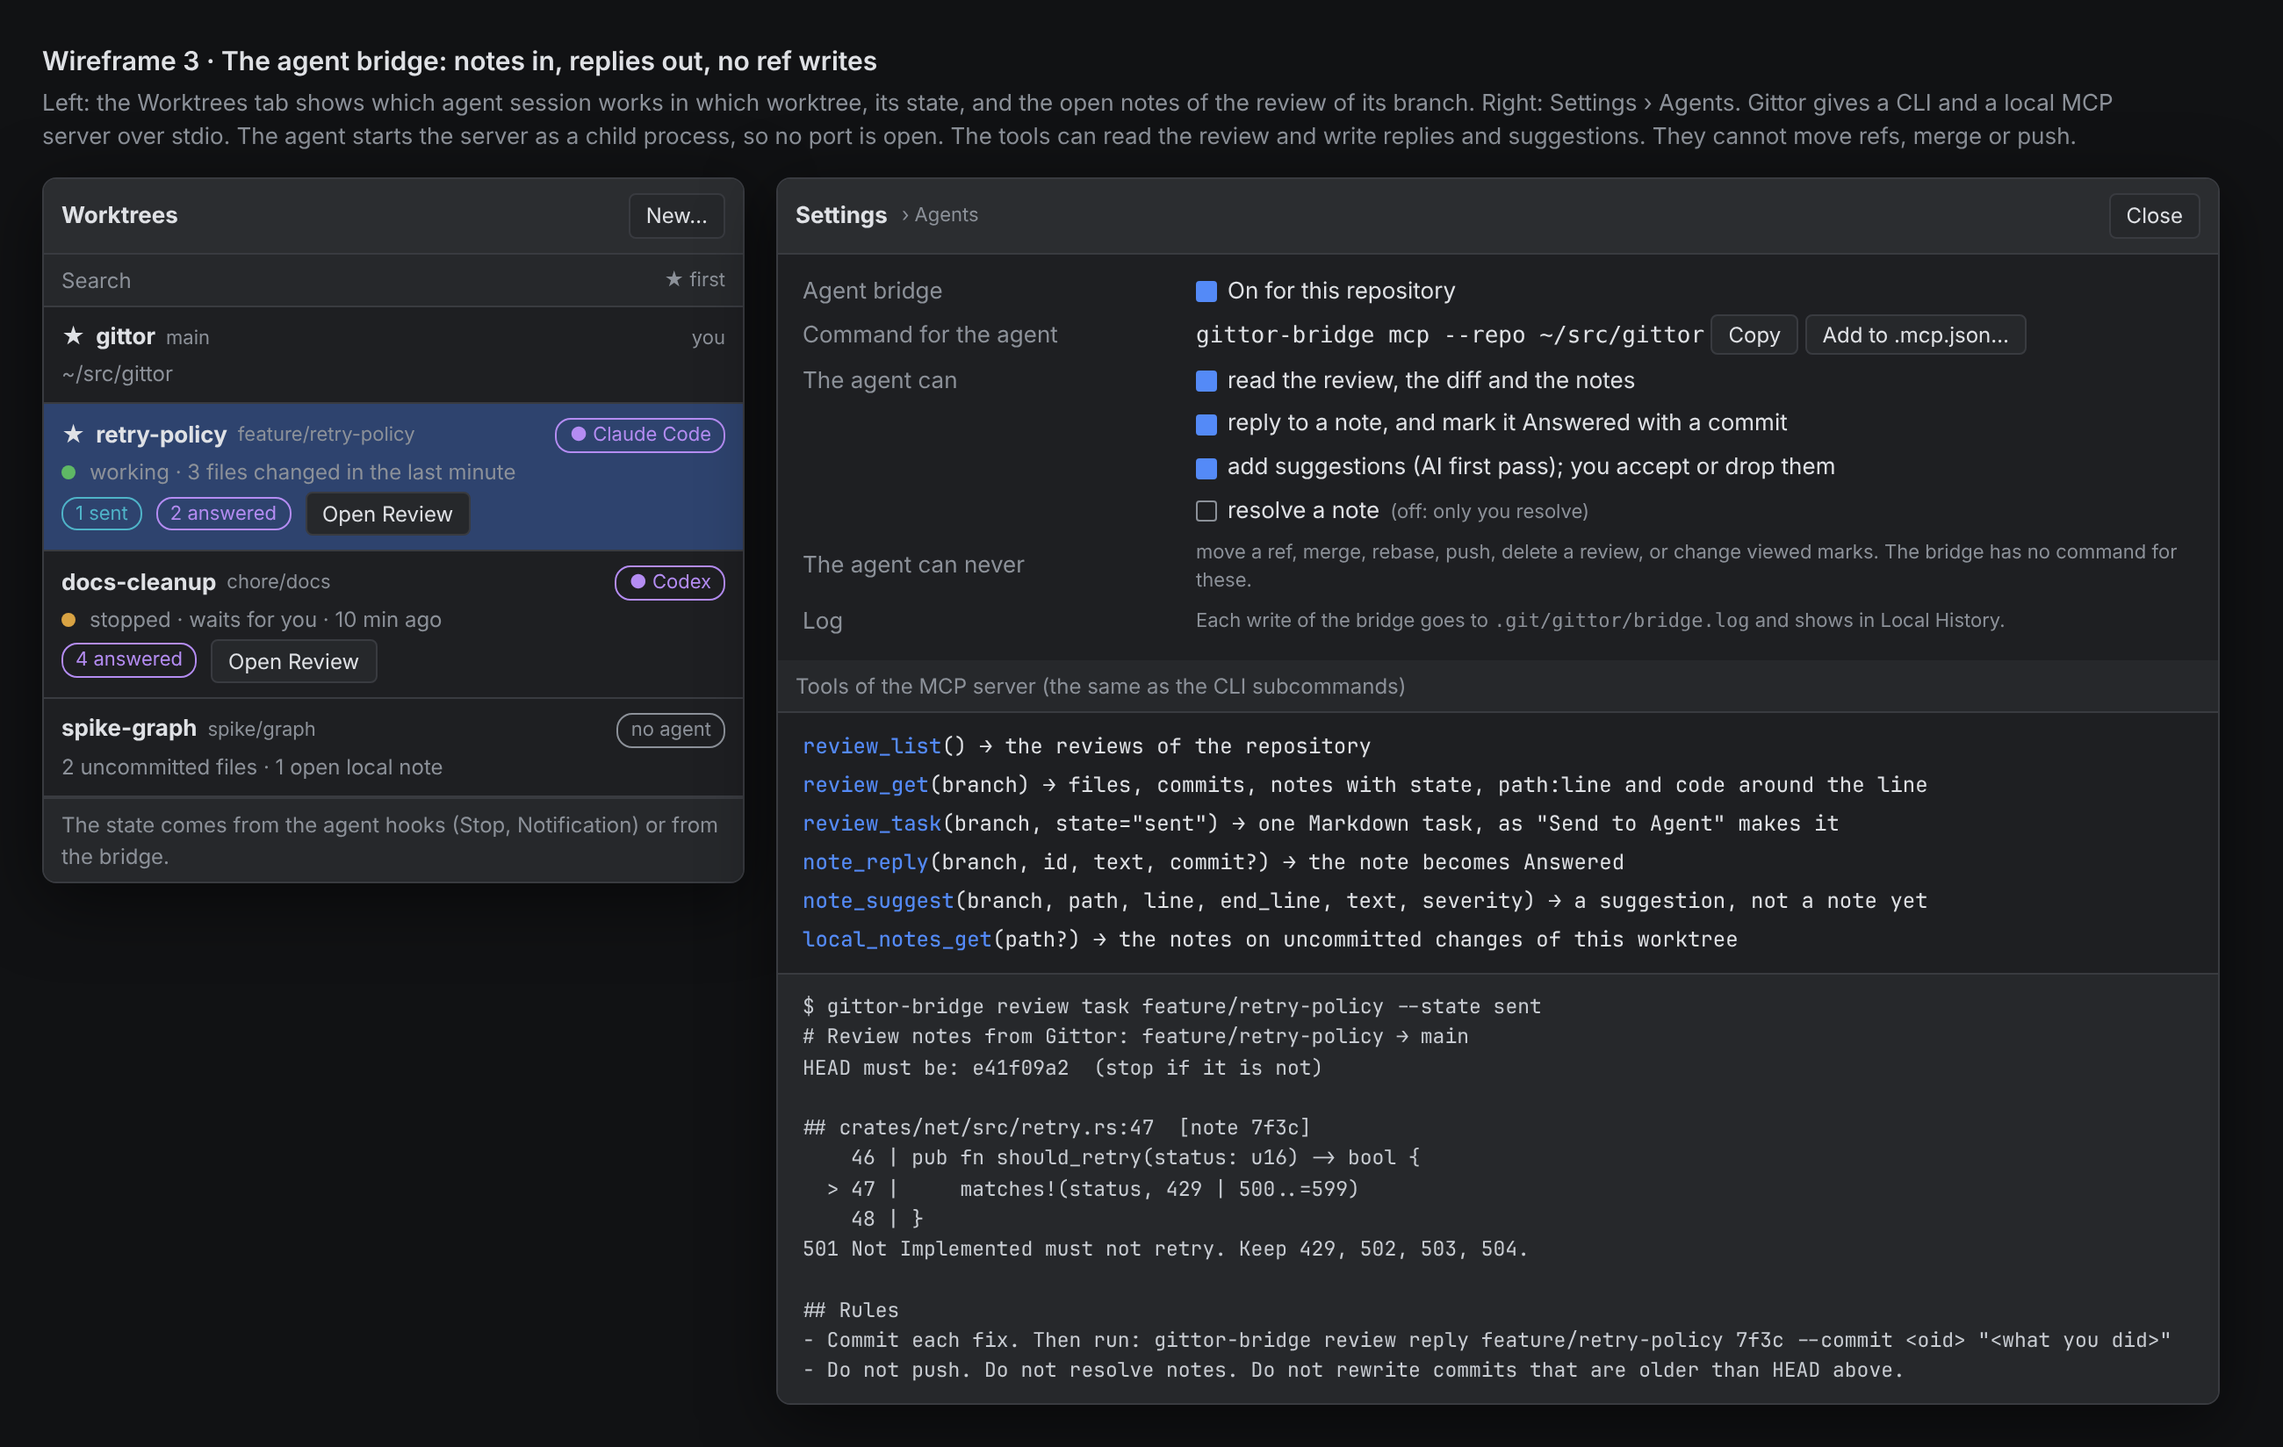
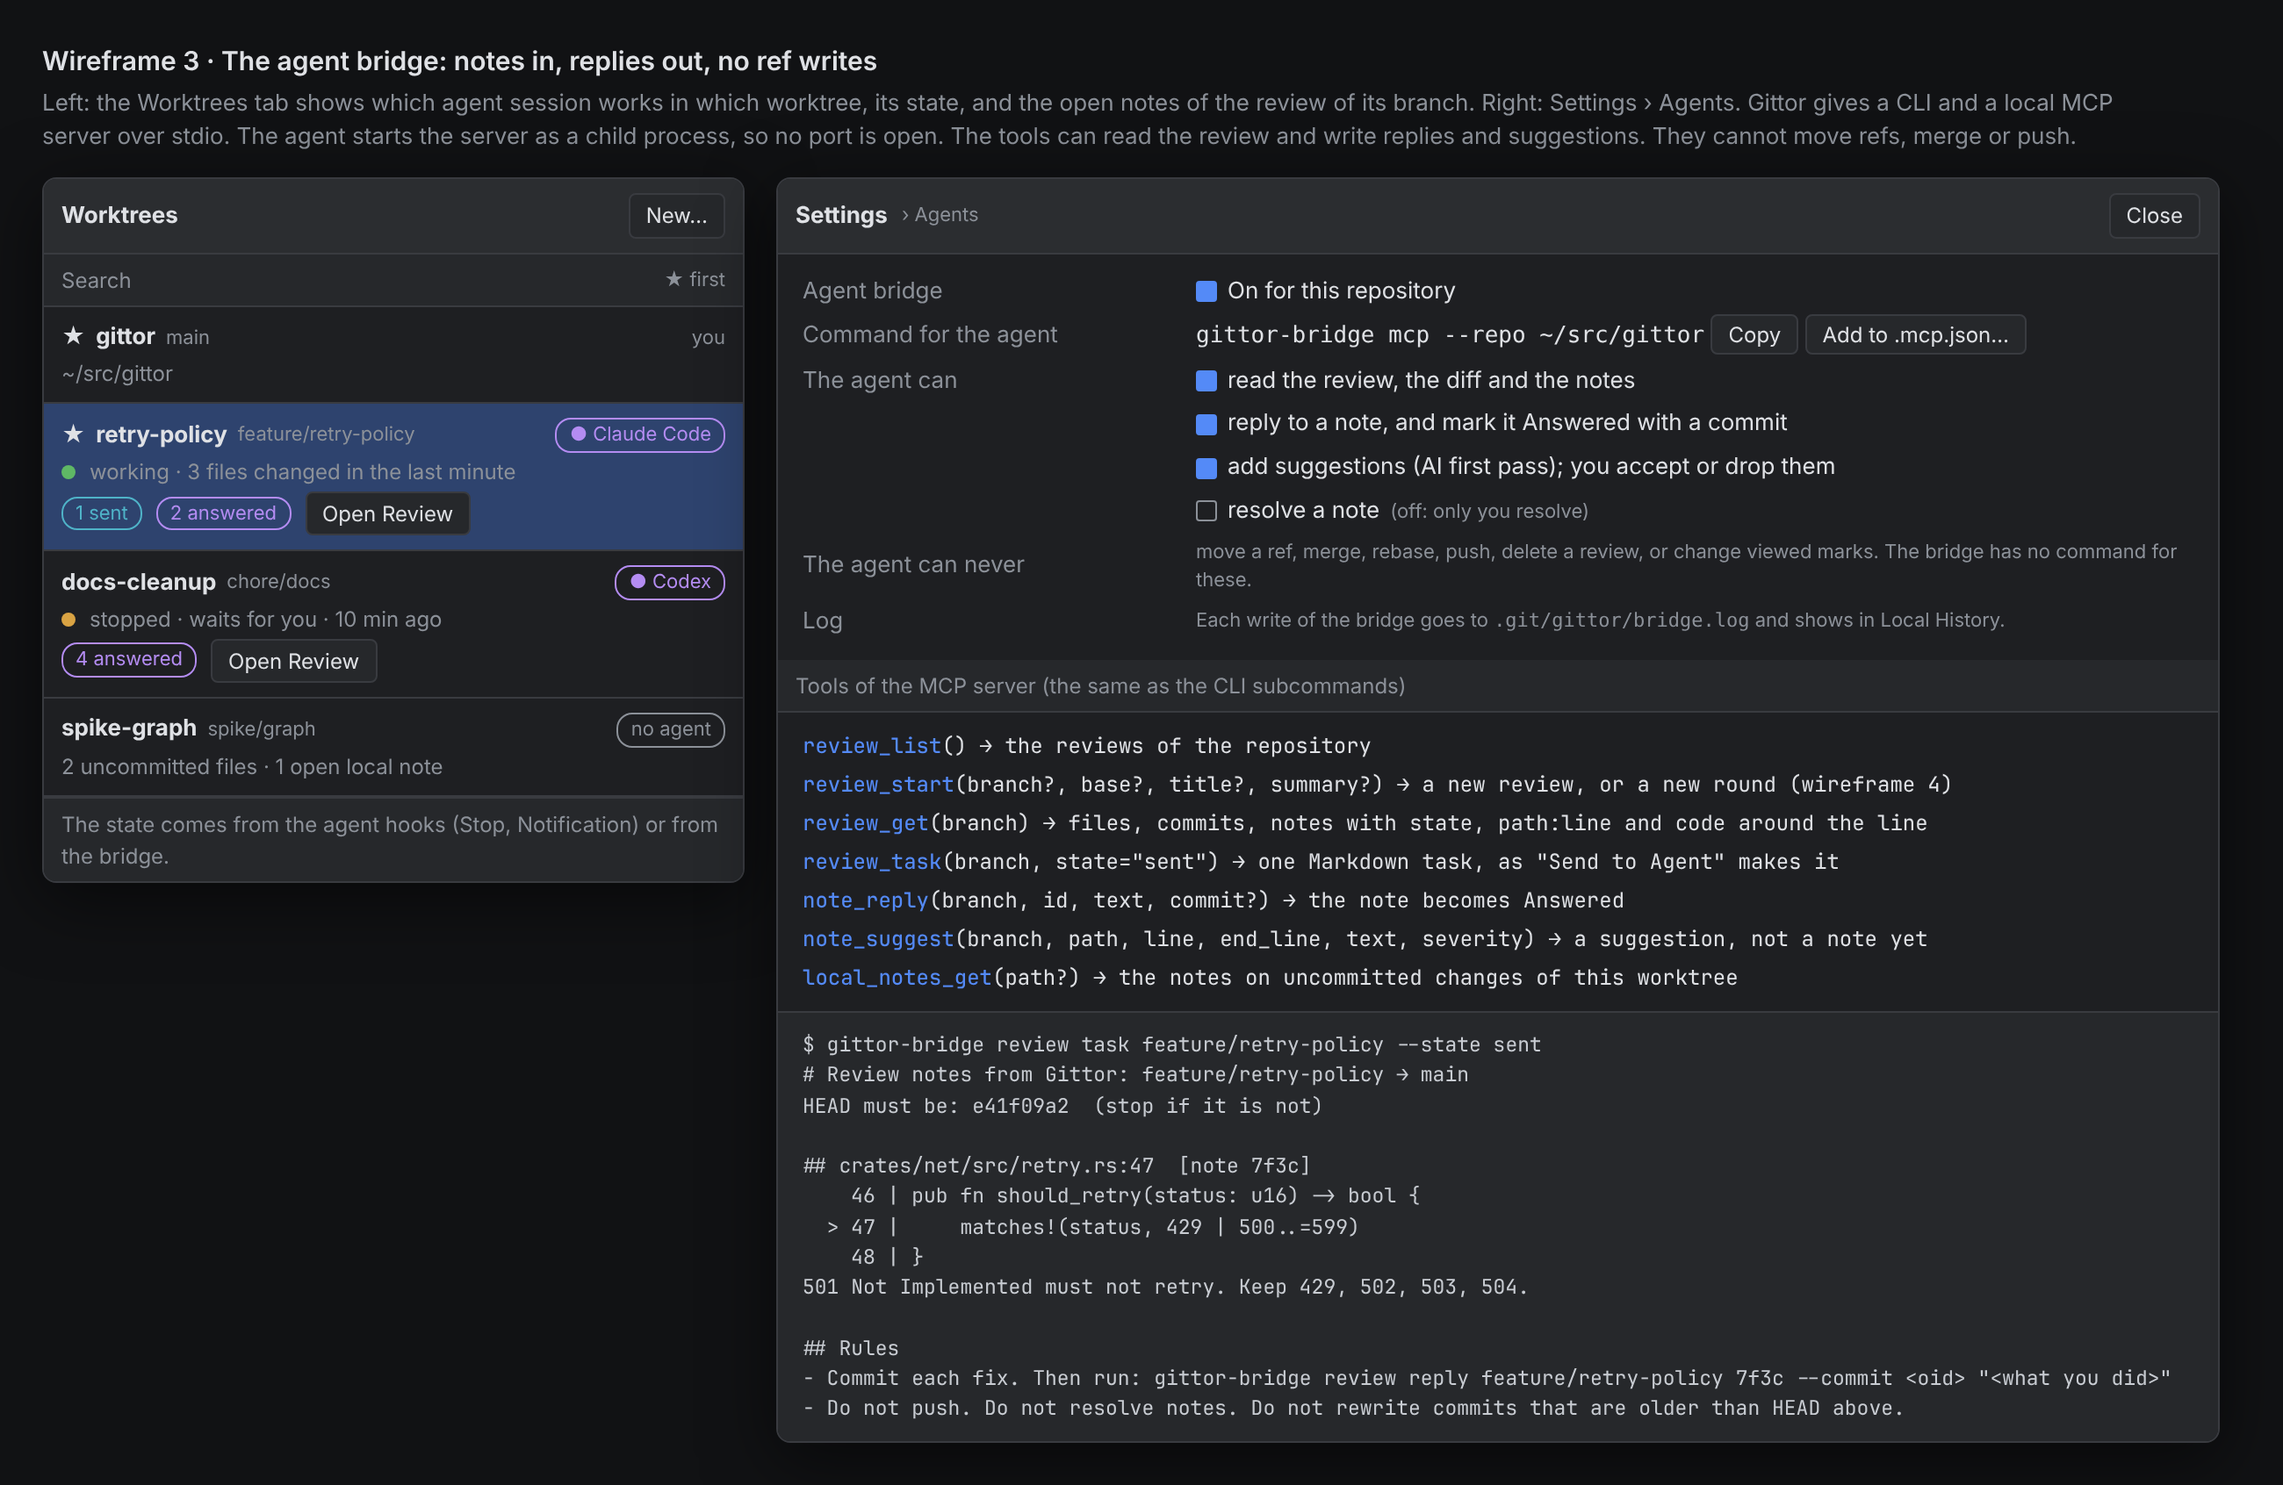
Docs: let an agent start a review with the CLI
Add idea 4a to the research: gittor-bridge review start. The agent
starts a review of its branch, or adds a round with its summary. The
command does not change the base, and it stops on uncommitted changes.
A separate binary is necessary, because the app takes its first
argument as a repository path. Add wireframe 4, three open questions,
and review_start to the tools of wireframe 3.

Claude-Session: https://claude.ai/code/session_01Tuh4ScXueJLXus69NbBXT3

diff --git a/docs/research/review-ai/4-agent-starts-review.html b/docs/research/review-ai/4-agent-starts-review.html
@@ -1,0 +1,84 @@
+<!doctype html>
+<html><head><meta charset="utf-8"><title>Wireframe 4: the agent starts a review</title><link rel="stylesheet" href="wire.css">
+<style>
+.cols { display: flex; gap: 18px; align-items: flex-start; }
+.term { width: 560px; }
+.term pre { margin: 0; padding: 12px 14px; font: 11.5px/1.55 "JetBrains Mono", ui-monospace, monospace; color: #c8ccd2; white-space: pre-wrap; background: #16171a; }
+.term .c { color: var(--ok); } .term .m { color: var(--muted); } .term .w { color: var(--warn); }
+.right { width: 662px; display: flex; flex-direction: column; gap: 18px; }
+.rv { padding: 8px 10px; border-bottom: 1px solid var(--border); }
+.rv .l1 { display: flex; gap: 6px; align-items: center; }
+.rv .l2 { color: var(--muted); font-size: 12px; margin-top: 3px; display: flex; gap: 8px; align-items: center; }
+.summary { padding: 10px 14px; border-bottom: 1px solid var(--border); background: var(--panel-2); font-size: 12.5px; }
+.summary h4 { margin: 0 0 4px; font-size: 12.5px; }
+.summary ul { margin: 4px 0 0 18px; padding: 0; }
+.rounds { display: flex; gap: 6px; align-items: center; }
+.toast { position: relative; background: var(--panel); border: 1px solid var(--border); border-left: 3px solid var(--agent); border-radius: 6px; padding: 8px 10px; display: flex; gap: 10px; align-items: center; box-shadow: 0 6px 20px #0007; }
+</style></head>
+<body>
+<h1 class="wf-title">Wireframe 4 · The agent starts a review with the CLI</h1>
+<p class="wf-sub">When the agent finishes a task in its worktree, it runs <code>gittor-bridge review start</code>. Gittor makes the review (or a new round of it), keeps the summary of the agent, and shows a toast. A second run on the same branch adds round 2. It does not change the base, and it does not make a second review. The rounds give the "changes since round 1" diff of wireframe 2.</p>
+<div class="cols">
+  <div class="win term">
+    <div class="hdr"><b>Terminal</b><span class="cnt">~/src/gittor/.claude/worktrees/retry-policy</span></div>
+<pre><span class="m">$ git status --short</span>
+<span class="m">$ </span>gittor-bridge review start --base main \
+    --title "Retry policy for fetch" \
+    --summary-file /tmp/summary.md --json
+<span class="c">{
+  "review": "feature/retry-policy",
+  "base": "main",
+  "round": 1,
+  "head": "0aa28f13",
+  "commits": 3, "files": 6,
+  "conflicts": [],
+  "uncommitted": [],
+  "behind": 2,
+  "created": true
+}</span>
+
+<span class="m"># ... the human writes 2 notes, the agent fixes them ...</span>
+
+<span class="m">$ </span>gittor-bridge review start --summary-file /tmp/r2.md --json
+<span class="c">{ "review": "feature/retry-policy", "round": 2,
+  "head": "e41f09a2", "created": false,
+  "since_round_1": { "commits": 1, "files": 2 } }</span>
+
+<span class="m">$ </span>gittor-bridge review start --base develop
+<span class="w">error: the review of feature/retry-policy has the base main.
+Only the user changes the base.  (exit 3)</span>
+
+<span class="m">$ </span>gittor-bridge review start   <span class="m"># with an unsaved edit</span>
+<span class="w">error: 1 file has uncommitted changes (src/retry.rs).
+Commit them first, or add --allow-uncommitted.  (exit 4)</span></pre>
+  </div>
+  <div class="right">
+    <div class="toast"><span class="dot" style="background:var(--agent)"></span><span><b>Claude Code</b> asks for a review: feature/retry-policy → main (round 2)</span><span style="flex:1"></span><span class="btn primary">Open Review</span><span class="btn">Later</span></div>
+    <div class="win" style="width:auto">
+      <div class="hdr"><b>Reviews</b><span class="sp"></span><span class="btn">New Review…</span></div>
+      <div class="rv" style="background:#2e436e">
+        <div class="l1"><b>feature/retry-policy</b><span class="cnt">→ main</span><span style="flex:1"></span><span class="pill p-done">by Claude Code</span><span class="pill p-open">round 2 ready</span></div>
+        <div class="l2">Retry policy for fetch · 4 commits · 2 files changed since your last review · no conflicts</div>
+      </div>
+      <div class="rv">
+        <div class="l1"><b>chore/docs</b><span class="cnt">→ main</span><span style="flex:1"></span><span class="pill p-done">by Codex</span><span class="pill p-muted">round 1 · 6/6 viewed</span></div>
+        <div class="l2">Fix links in the docs · 1 commit</div>
+      </div>
+      <div class="rv">
+        <div class="l1"><b>spike/graph</b><span class="cnt">→ main</span><span style="flex:1"></span><span class="pill p-muted">by you</span></div>
+        <div class="l2">5 commits · 2/9 viewed</div>
+      </div>
+    </div>
+    <div class="win" style="width:auto">
+      <div class="hdr"><b>Review</b><span class="btn">feature/retry-policy → main ▾</span><span class="sp"></span>
+        <span class="rounds"><span class="cnt">Round</span><span class="btn">1</span><span class="btn primary">2</span><span class="btn">Compare 1 ↔ 2</span></span></div>
+      <div class="summary">
+        <h4>Round 2 · Claude Code · e41f09a2</h4>
+        Fixed the 2 notes of round 1.
+        <ul><li>Capped the backoff at <code>max_ms</code> (note 3a1e).</li><li>501 does not retry now (note 7f3c).</li><li>Tests: <code>cargo test -p net</code> passes.</li></ul>
+      </div>
+      <div class="foot"><span>The summary is text from the agent. Gittor shows it through the Markdown sanitizer, and cuts it at 20 KB.</span></div>
+    </div>
+  </div>
+</div>
+</body></html>

diff --git a/docs/research/review-ai/3-agent-bridge.html b/docs/research/review-ai/3-agent-bridge.html
@@ -58,6 +58,7 @@ pre { margin: 0; padding: 10px 14px; background: var(--panel-2); border-top: 1px
     <div class="sec">Tools of the MCP server (the same as the CLI subcommands)</div>
     <div style="padding:8px 14px">
       <div class="tool"><b>review_list</b>() → the reviews of the repository</div>
+      <div class="tool"><b>review_start</b>(branch?, base?, title?, summary?) → a new review, or a new round (wireframe 4)</div>
       <div class="tool"><b>review_get</b>(branch) → files, commits, notes with state, path:line and code around the line</div>
       <div class="tool"><b>review_task</b>(branch, state="sent") → one Markdown task, as "Send to Agent" makes it</div>
       <div class="tool"><b>note_reply</b>(branch, id, text, commit?) → the note becomes Answered</div>

diff --git a/docs/research/review-ai-collaboration.md b/docs/research/review-ai-collaboration.md
@@ -273,6 +273,72 @@ service (`crates/service`), UI flow module (`ui/src`).
 - **From outside.** The MCP convention of the agents (`.mcp.json` for Claude Code; Codex and Cursor
   have their own config files). A skill or `AGENTS.md` line tells the agent to use it.
 
+### 4a. The agent starts a review: `gittor-bridge review start`
+
+The owner asked for this on 2026-11-24. It is the first command of the bridge (idea 4), because
+`Repo::start_review` already exists, and it needs no note states. Wireframe 4.
+
+- **What.** When the agent finishes a task in its worktree, it runs:
+
+  ```sh
+  gittor-bridge review start [--branch <b>] [--base <b>] [--title <t>] [--summary-file <md>] [--json]
+  ```
+
+  - `--branch`: by default the branch of the worktree in the current directory.
+  - `--base`: by default the base of the existing review. For a new review: the local branch of
+    `origin/HEAD`, else `main`, else `master`. The command stops when it cannot choose one.
+  - The review goes to `<common git dir>/gittor/reviews.json`, so the main window of the owner sees
+    it, also when the agent works in `.claude/worktrees/<name>`.
+  - The output tells the agent what the human will see: commits, files, conflicts with the base
+    (`merge-tree`, as the window does), the commits that the branch is behind, and uncommitted files.
+    The agent can fix a conflict before it asks for a review.
+- **Rounds.** A second `start` on the same branch does not make a second review. It adds a round:
+  `{ round, head, base_oid, time, author, summary }`. A round is the patch set of Gerrit and the diff
+  version of GitLab, but the agent says when it is ready, not each push. Idea 2 uses the rounds:
+  "Compare round 1 ↔ 2", and "changed since your last review".
+- **Rules of the command** (the differences from the UI):
+  - It never changes the base of an existing review. `Repo::start_review` changes it today; the
+    bridge needs a variant that refuses (exit code 3). Only the user changes the base.
+  - It stops when the worktree has uncommitted changes in tracked files (exit code 4), because the
+    review shows commits only. `--allow-uncommitted` skips the check.
+  - It refuses a branch that is the base, a protected branch (`main`, `master` and the setting of
+    protected branches), and a remote-tracking branch.
+  - It cannot remove a review, finish (merge) it, or change viewed marks.
+  - `author` is the value of `--agent <name>`, else the environment (`CLAUDECODE=1` gives
+    "Claude Code"), else "agent". It is a label, not a proof.
+- **UI.**
+  - The Reviews tab shows "by <agent>" and "round N ready" until the user opens that round.
+  - A toast "<agent> asks for a review" with Open Review.
+  - The Review window shows the summary of each round above the files, and a round selector.
+  - This needs the watcher to see `gittor/reviews.json` (`watch.rs` ignores it today) and the lock
+    of section 5, idea 4.
+- **Value.** High. Loop A starts by itself: the owner does not need to find the branch, choose the base
+  and open the review. The summary of the agent stays with the round, and is not lost in a terminal.
+- **Risk.** Low to medium.
+  - Many reviews: one review per branch, so the count is the count of agent branches. Rounds can grow;
+    keep the last 20 and cut a summary at 20 KB.
+  - The summary is text from the agent: render it only through the sanitizer of
+    `markdown-preview.ts`, and never run a link or a command from it.
+  - A toast can disturb the owner: a setting turns it off.
+- **Layers.**
+  - `crates/git/src/review.rs`: the fields `title`, `created_by` and `rounds` in `Stored` (all with
+    `#[serde(default)]`). A function `request_review(branch, base, title, summary, author)` that
+    refuses a new base and adds a round.
+  - The command: a separate binary is the simple way. The app takes its first argument as a
+    repository path (`initial_path` in `crates/app/src/main.rs`), so `Gittor review start` would open
+    a repository named "review". A flag (`Gittor --cli review start`) also works, but on macOS a
+    start of the app binary from a terminal is slow, and it must not open a window.
+  - The binary goes into the app bundle as a Tauri sidecar (`externalBin`). A menu item "Install
+    Command Line Tool" makes a link in `/usr/local/bin` or `~/.local/bin`, as VS Code does for `code`.
+  - `ReviewSummary` and `ReviewDetail` get the new fields (ts-rs bindings). `review-panel.ts` and
+    `review-view.ts` draw them. A `review-request-flow.ts` shows the toast.
+- **From outside.** One line in `AGENTS.md`, or a Claude Code skill `/gittor-review`, that tells the
+  agent to run the command at the end of a task. A `Stop` hook is a poor fit: it runs at the end of
+  each turn, not of each task.
+- **First step.** `review start` with `--branch`, `--base`, `--title`, `--summary-file`, `--json`, the
+  rules above, one round per call, and the "by" label and the summary in the UI. The compare of rounds
+  comes with idea 2.
+
 ### 5. Agent sessions on the Worktrees tab
 
 - **What.** The Worktrees tab shows which agent works in which worktree, and its state: working,
@@ -335,6 +401,9 @@ Ideas 3 and 1, the smallest part of each, with no external dependency:
 
 The agent answers in its terminal as today. The human then sees which notes went out.
 
+The bridge can start in parallel with `gittor-bridge review start` (idea 4a). It uses the same lock and
+watcher fixes, and no note states. With it, the agent opens the loop, and "Send to Agent" closes it.
+
 ### Later step
 
 1. Replies and Answered (idea 1), written by `gittor-bridge review reply` (idea 4, CLI only).
@@ -352,6 +421,12 @@ The agent answers in its terminal as today. The human then sees which notes went
 5. Where does the task file go: only the clipboard, or also `.git/gittor/tasks/` for a hook to read?
 6. Should Gittor add a line to `AGENTS.md` or a skill to `.claude/skills` of a repository, or only
    show the text for the user to copy?
+7. `review start` (idea 4a): may the agent start a review of any branch, or only of the branch of its
+   own worktree? The proposal: any local branch except the protected ones.
+8. Must a new round reset the viewed marks? The proposal: no. The marks keep the blob, so only the
+   files that changed in the round become "changed since viewed" (idea 2).
+9. When the agent calls `review start` and the app is closed: is the toast at the next start enough,
+   or must the command also start the app?
 
 ## 8. Wireframes
 
@@ -360,3 +435,4 @@ The agent answers in its terminal as today. The human then sees which notes went
 | [`review-ai/1-note-loop.png`](review-ai/1-note-loop.png) ([HTML](review-ai/1-note-loop.html)) | 1 and 3: note states, the reply of the agent with its commit, Send to Agent |
 | [`review-ai/2-since-last-review.png`](review-ai/2-since-last-review.png) ([HTML](review-ai/2-since-last-review.html)) | 2: the diff from the viewed blob, the note that follows its line |
 | [`review-ai/3-agent-bridge.png`](review-ai/3-agent-bridge.png) ([HTML](review-ai/3-agent-bridge.html)) | 4 and 5: the tools of the bridge, what the agent cannot do, agents on the Worktrees tab |
+| [`review-ai/4-agent-starts-review.png`](review-ai/4-agent-starts-review.png) ([HTML](review-ai/4-agent-starts-review.html)) | 4a: `review start` in a terminal, the rounds, the toast, "by <agent>" on the Reviews tab |
